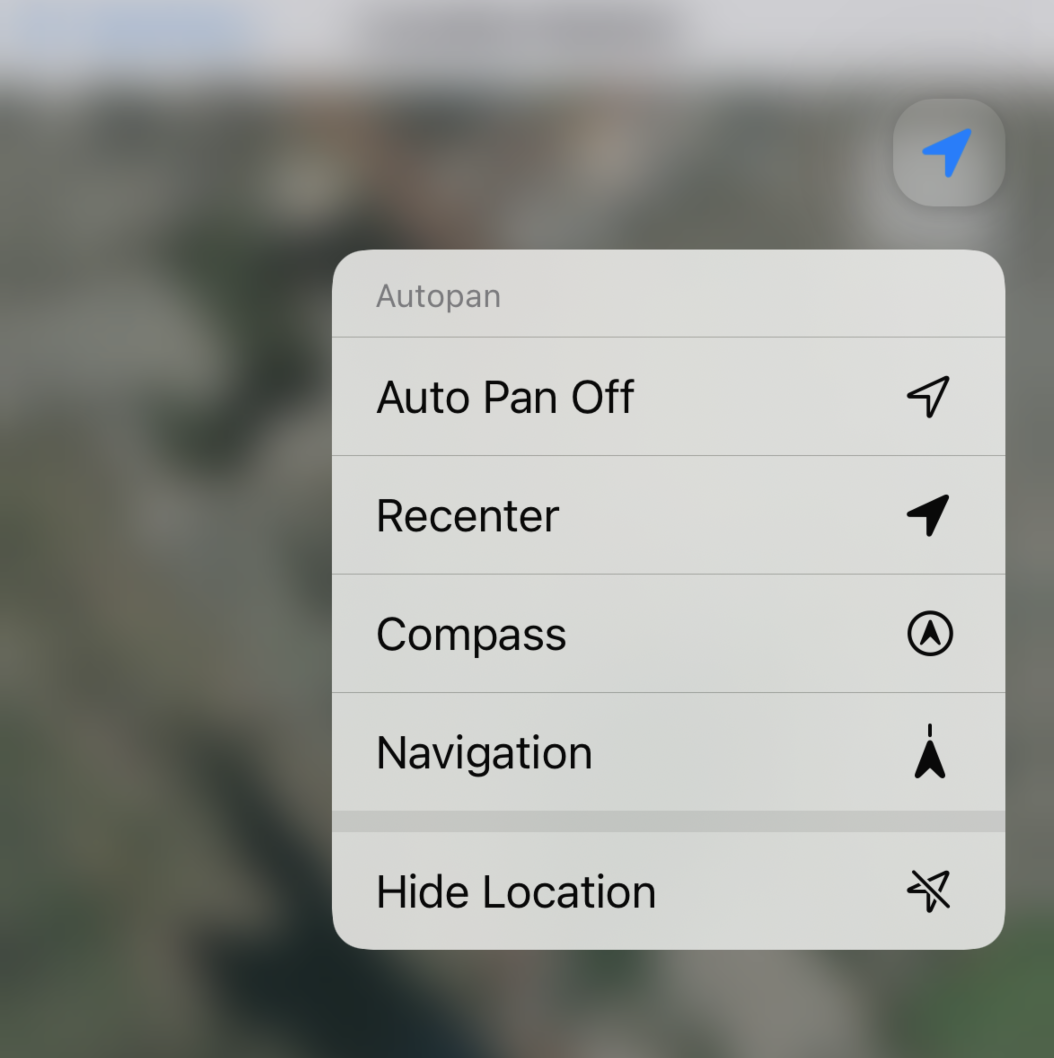
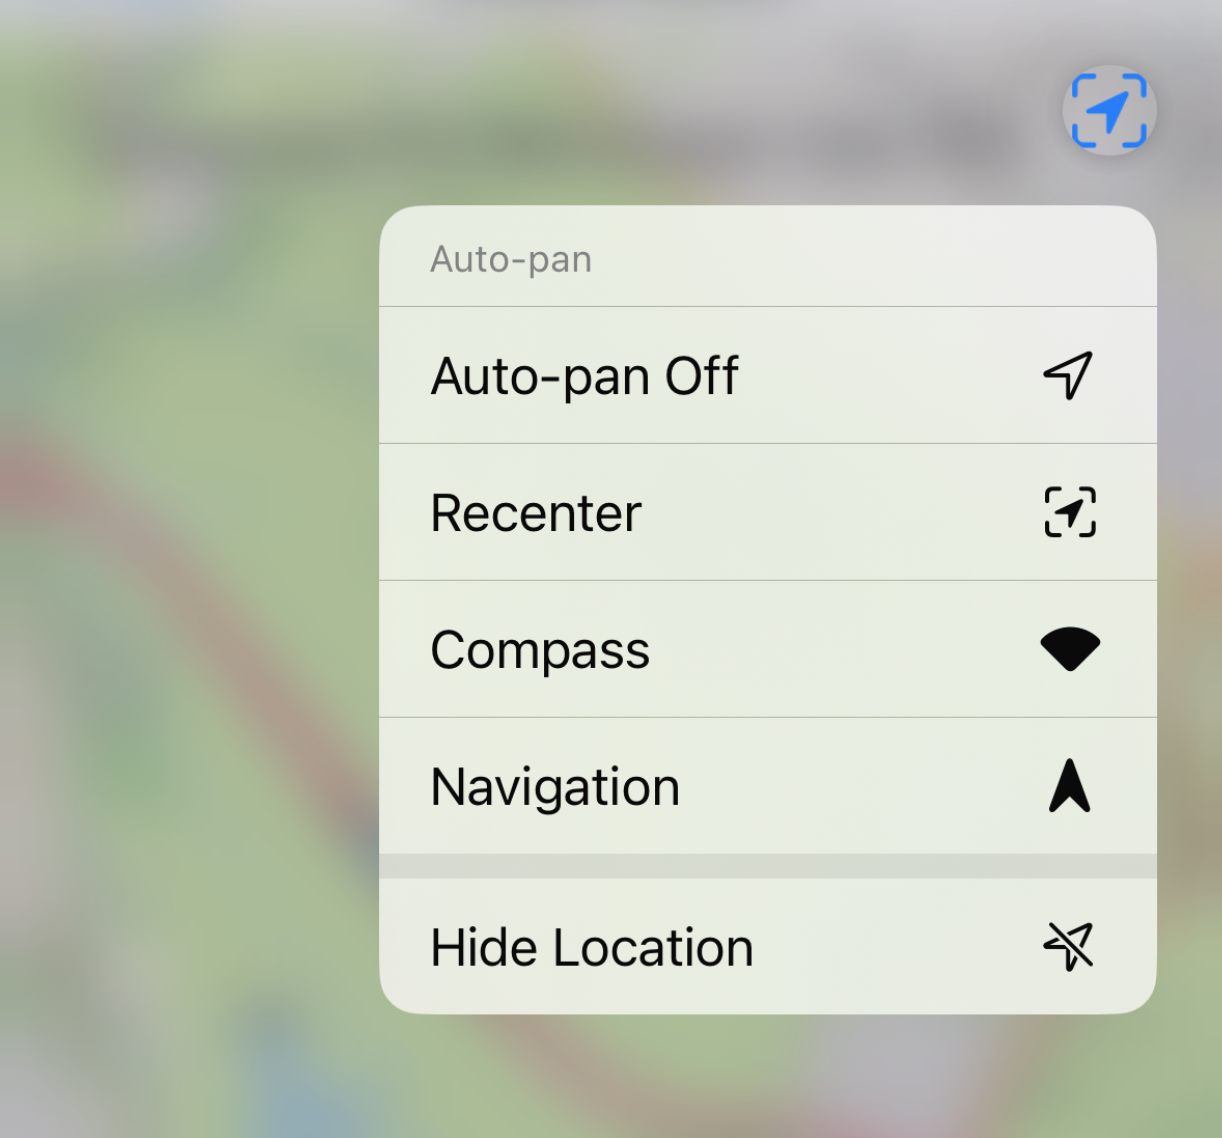
update tutorial

diff --git a/Sources/ArcGISToolkit/Documentation.docc/Resources/LocationButton/LocationButtonStep3.swift b/Sources/ArcGISToolkit/Documentation.docc/Resources/LocationButton/LocationButtonStep3.swift
@@ -17,9 +17,11 @@ struct LocationButtonExampleView: View {
             .overlay(alignment: .topTrailing) {
                 LocationButton(locationDisplay: locationDisplay)
                     .autoPanOptions([.recenter, .compassNavigation, .off])
-                    .padding(8)
+                    .imageScale(.large)
+                    .frame(minWidth: 50, minHeight: 50)
                     .background(.thinMaterial)
                     .clipShape(RoundedRectangle(cornerRadius: 10, style: .continuous))
+                    .shadow(radius: 8)
                     .padding()
             }
     }
